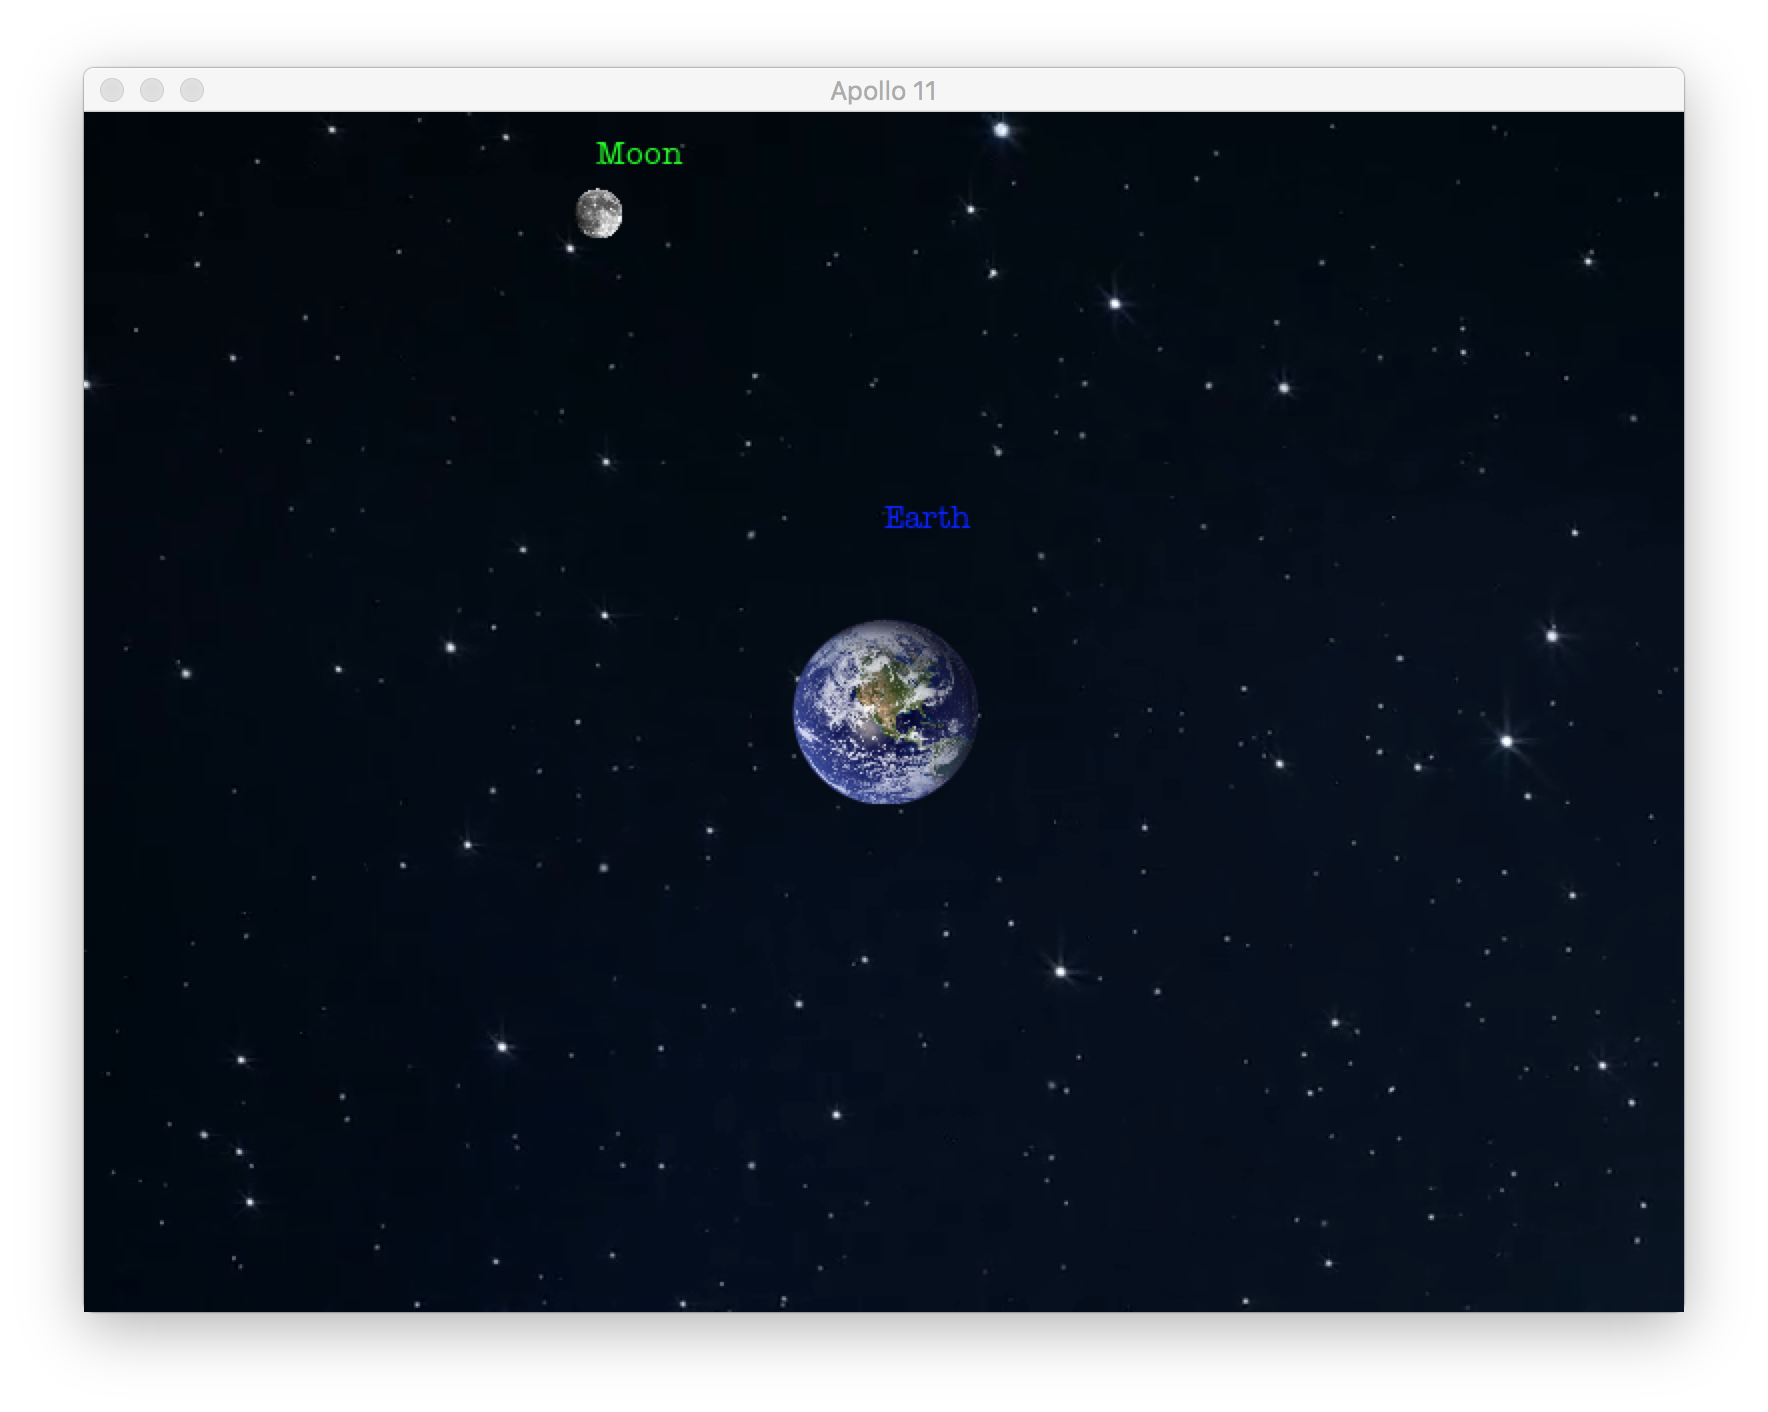
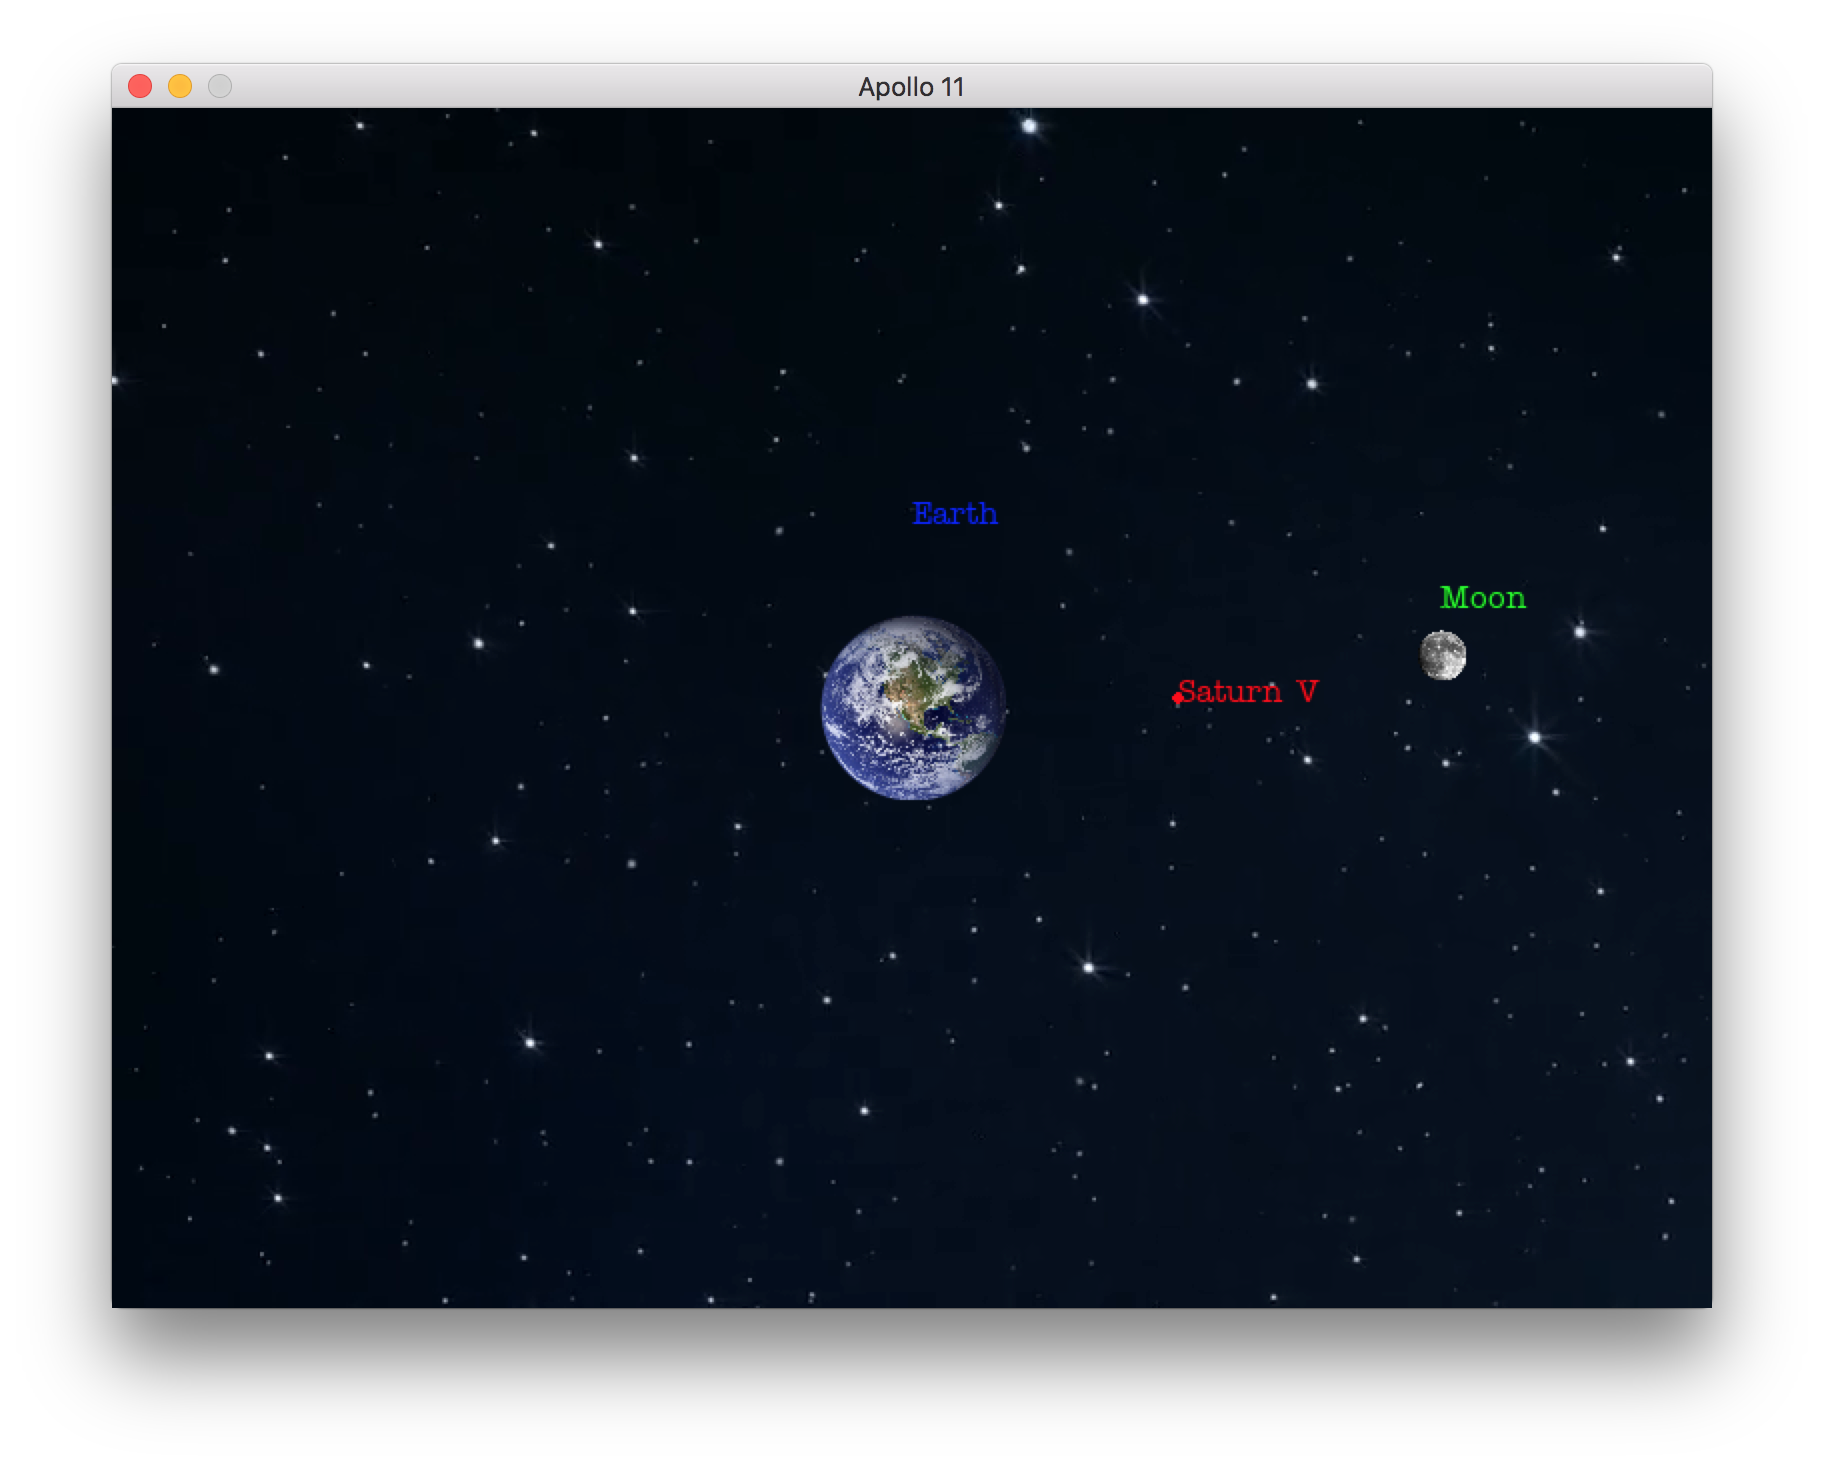
Screenshot 2

diff --git a/src/apollo11.py b/src/apollo11.py
@@ -140,9 +140,10 @@ moon = pyObj(screen, MOON_START_POS, size=MOON_RADIUS*2, img=moonImg, name='Moon
 moon.velocity = MOON_PERIGEE_VELOCITY
 
 saturnVImg = pygame.image.load(SATURNV_IMG_PATH)
-saturnV = pyObj(screen, EARTH_START_POS + np.array([0.0, EARTH_RADIUS]), size=SATURNV_SIZE, img=saturnVImg, name='Saturn V', color=(255,0,0)) #EARTH_START_POS + EARTH_RADIUS + MOON_START_POS/2
+#saturnV = pyObj(screen, EARTH_START_POS + np.array([0.0, EARTH_RADIUS]), size=SATURNV_SIZE, img=saturnVImg, name='Saturn V', color=(255,0,0)) #EARTH_START_POS + EARTH_RADIUS + MOON_START_POS/2
+saturnV = pyObj(screen, EARTH_START_POS + EARTH_RADIUS + MOON_START_POS/2, size=SATURNV_SIZE, img=saturnVImg, name='Saturn V', color=(255,0,0))
 saturnV.velocity = np.array([0.0, 0.0])#1.485e3])
-saturnV.fs = np.array([0.0, 3e7])
+#saturnV.fs = np.array([0.0, 3e7])
 
 
 eagleImg = pygame.image.load(EAGLE_IMG_PATH)
